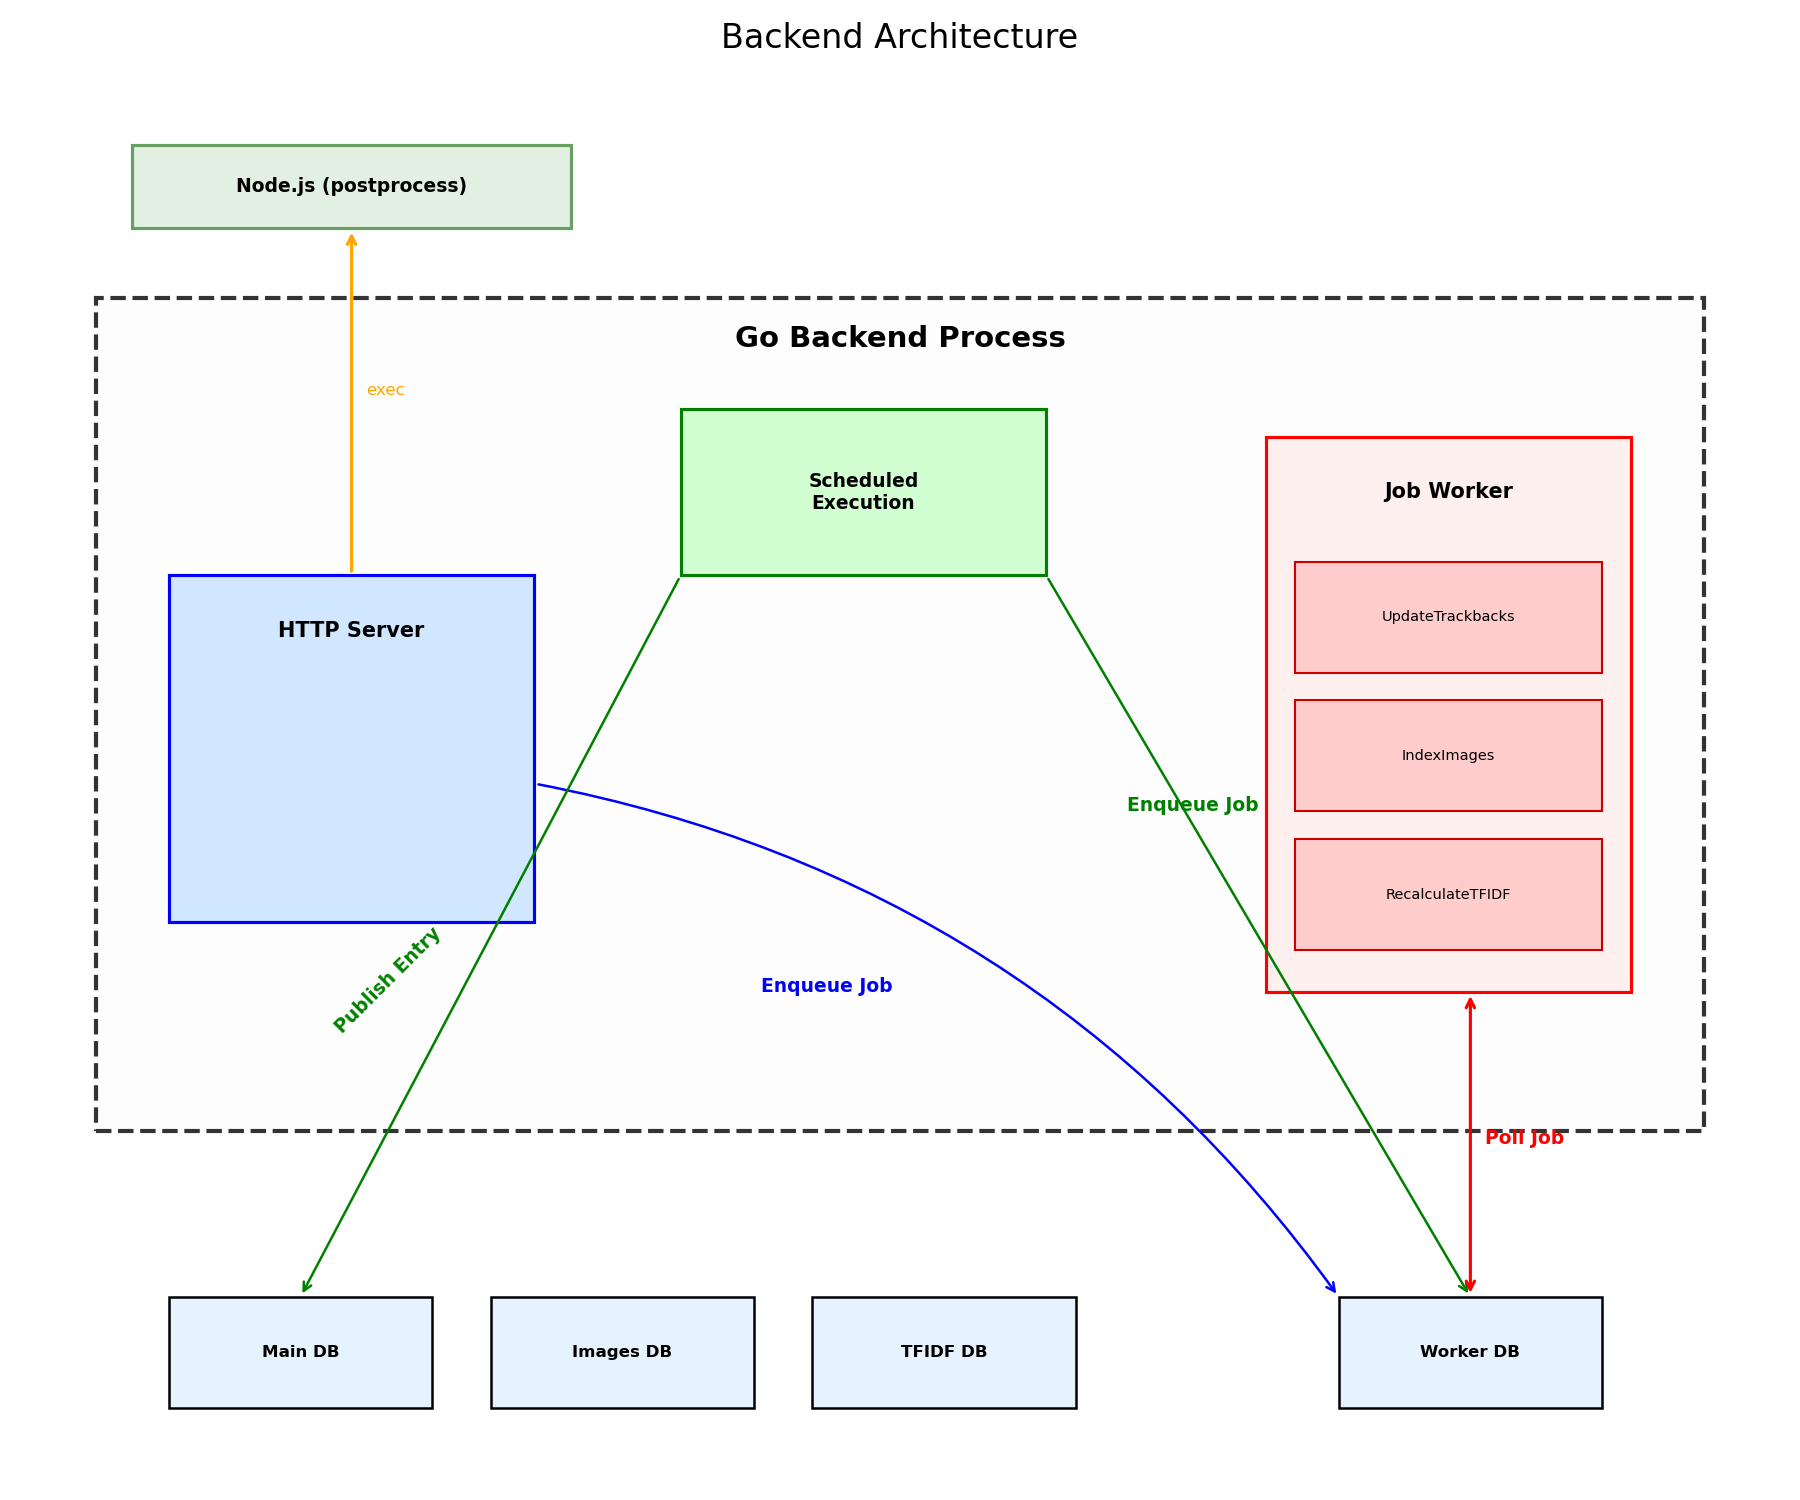
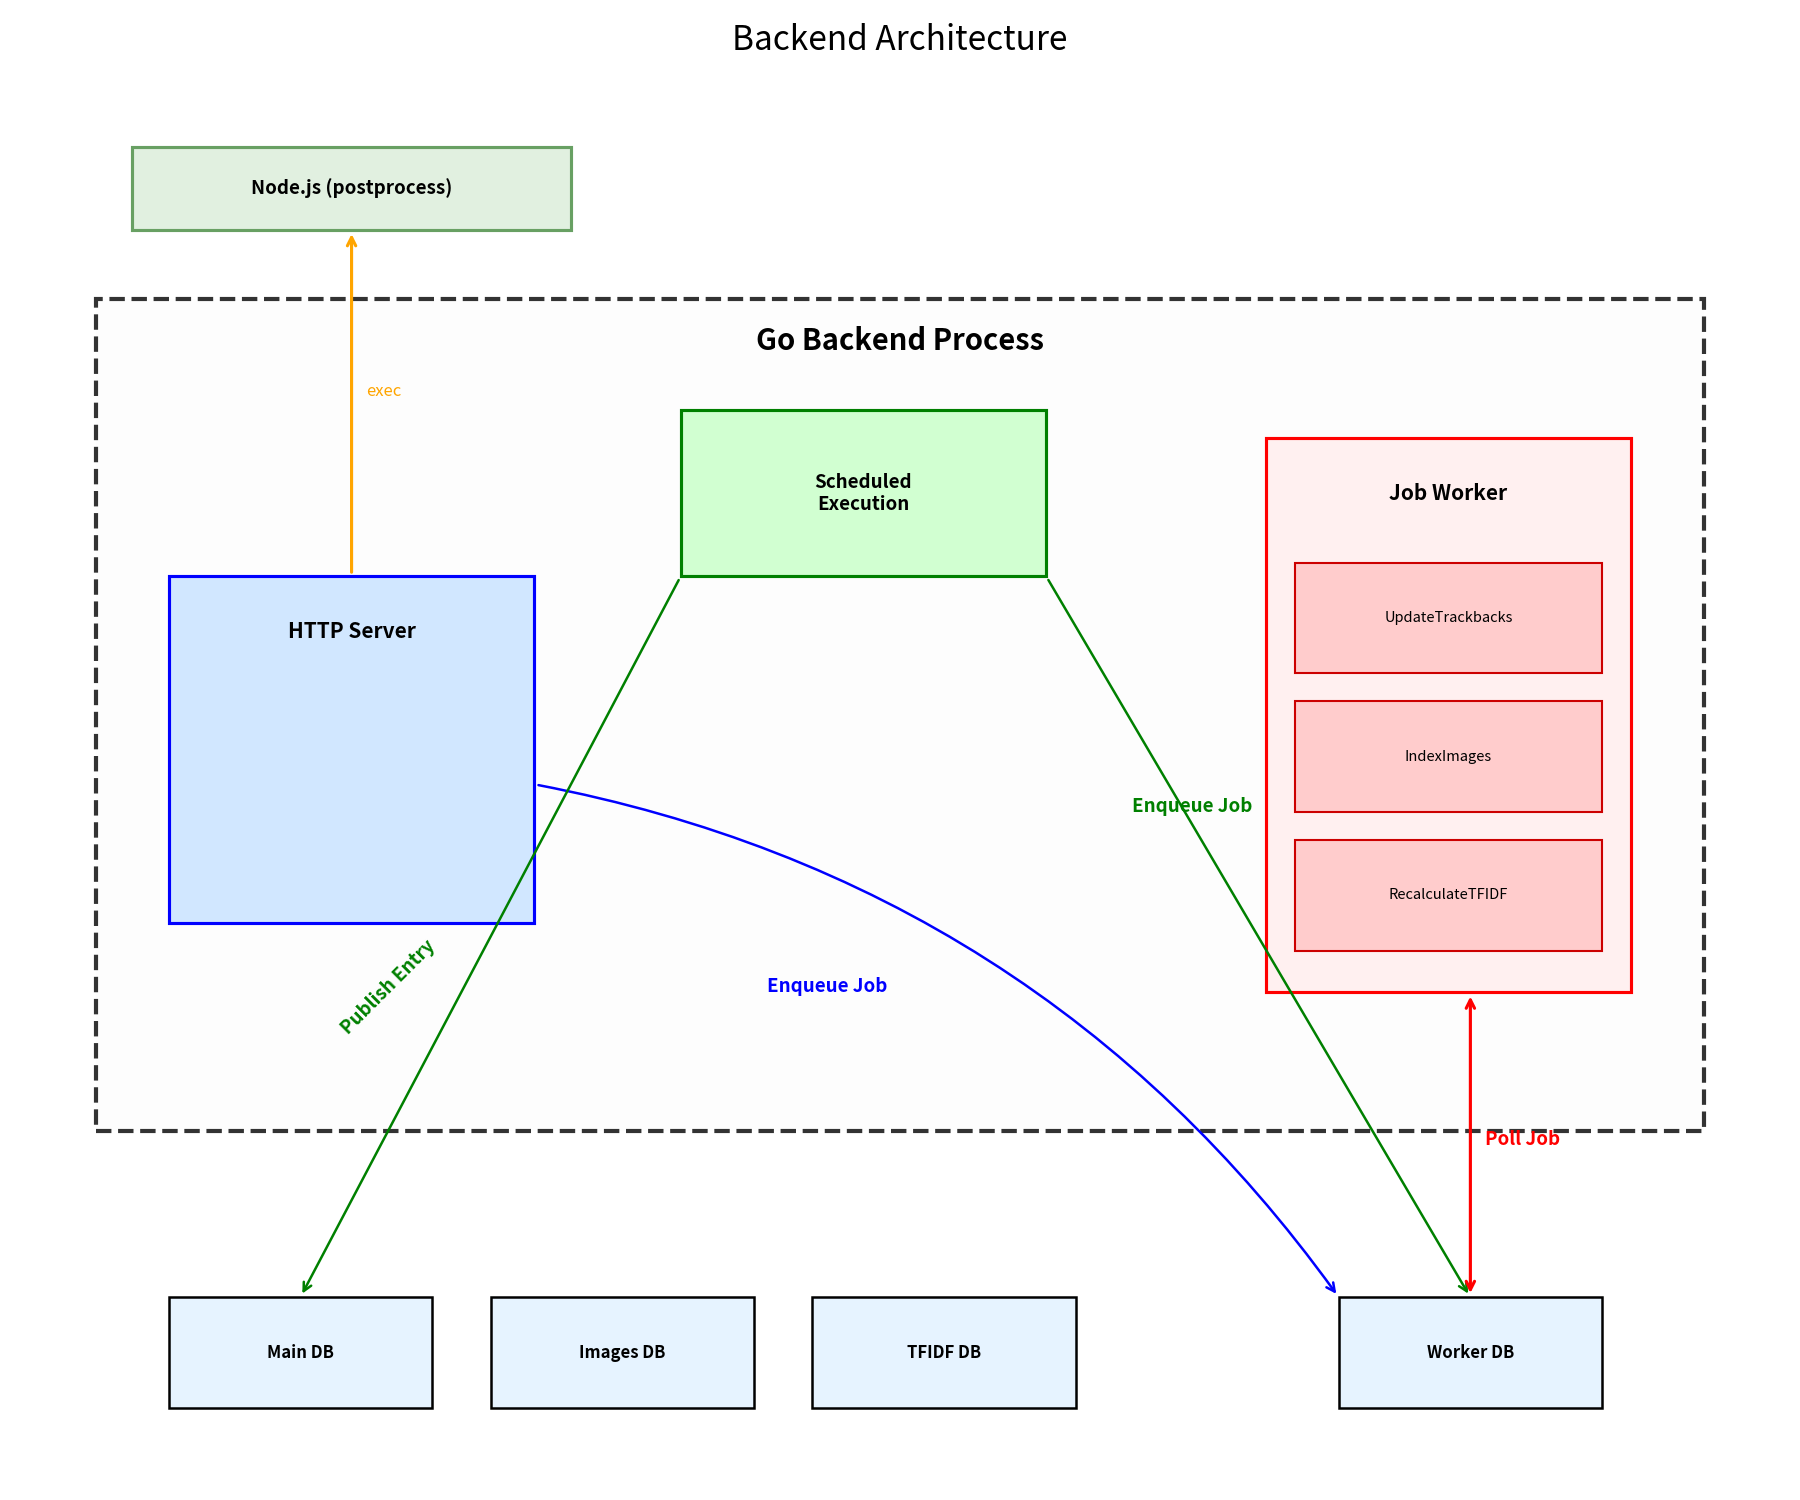
update docs

diff --git a/docs/content_pipeline_diag.py b/docs/content_pipeline_diag.py
@@ -1,6 +1,8 @@
 import matplotlib.pyplot as plt
 import matplotlib.patches as patches
 
+plt.rcParams['font.family'] = 'Noto Sans JP'
+
 def draw_pipeline_final():
     fig, ax = plt.subplots(figsize=(16, 10))
     ax.set_xlim(0, 16)

diff --git a/docs/frontend_arch_diag.py b/docs/frontend_arch_diag.py
@@ -1,6 +1,8 @@
 import matplotlib.pyplot as plt
 import matplotlib.patches as patches
 
+plt.rcParams['font.family'] = 'Noto Sans JP'
+
 def draw_frontend_arch():
     fig, ax = plt.subplots(figsize=(12, 8))
     ax.set_xlim(0, 12)

diff --git a/docs/arch_diag.py b/docs/arch_diag.py
@@ -1,6 +1,8 @@
 import matplotlib.pyplot as plt
 import matplotlib.patches as patches
 
+plt.rcParams['font.family'] = 'Noto Sans JP'
+
 def draw_arch():
     fig, ax = plt.subplots(figsize=(12, 10))
     ax.set_xlim(0, 12)
